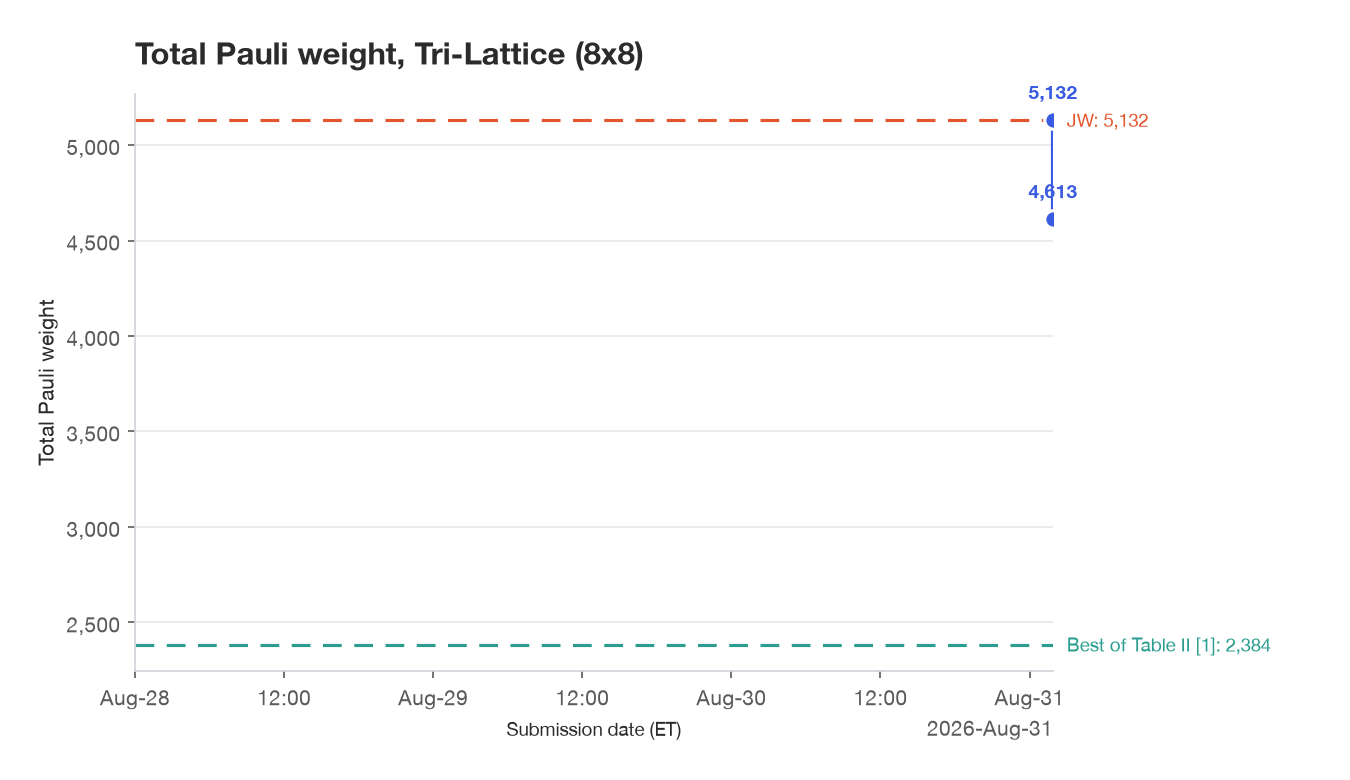
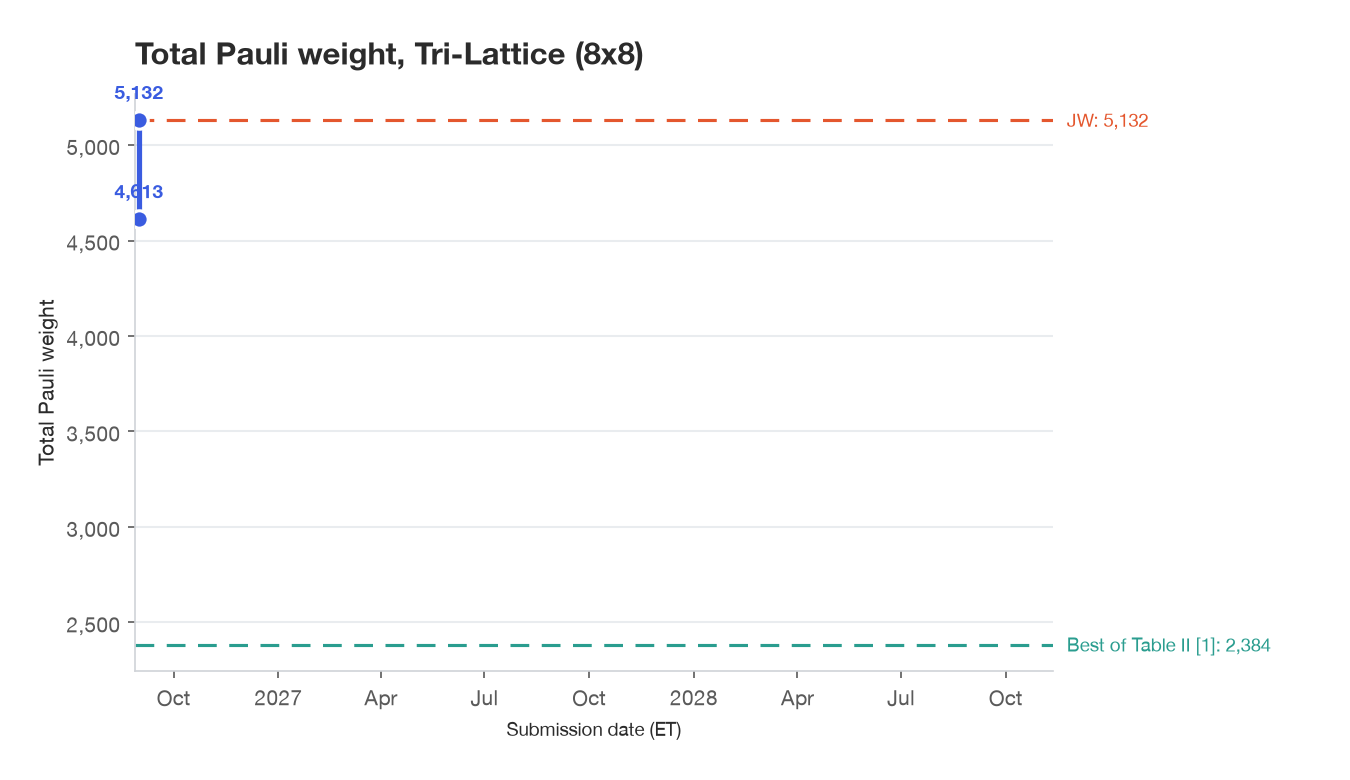
Cap the graph challenge's triangular/hexagonal sweep at 8x8
Both lattice types previously swept to different sizes (triangular
3-15, hexagonal 3-10) chosen to keep qubit counts roughly comparable.
Revisited because, unlike the square-lattice sweep's fixed baselines,
a graph-challenge submission's encode() can do unbounded optimization
work -- nothing bounded how expensive the largest swept shape got to
verify. Cap both types down to a uniform 3x3..8x8 instead, accepting
the resulting qubit-count asymmetry (hexagonal 128 vs triangular 64
at 8x8) for how much simpler one shared cap is to state and explain.

Re-registered the 4 reference baselines (jw/tt x triangular/hexagonal)
at the new range and regenerated LEADERBOARD_GRAPHS.md. Square-lattice
leaderboard files verified byte-identical throughout.

diff --git a/scripts/update_leaderboard.py b/scripts/update_leaderboard.py
@@ -93,21 +93,23 @@ SIZES = list(range(3, 16))
 
 
 # Range of Lx=Ly sizes shown in each graph type's own sweep table/chart --
-# mirrors SIZES, but per graph type, since hexagonal's mode count
-# (M = 2*Lx*Ly, two sites per unit cell) grows twice as fast as
-# triangular's (M = Lx*Ly, same as the square lattice). A shared upper
-# bound would leave hexagonal's top qubit count roughly double
-# triangular's; capped instead so the two land in the same ballpark
-# (hexagonal 10x10 = 200 qubits, triangular 15x15 = 225) -- a submission's
-# own encode() may do real optimization work, so the qubit count a
-# verifier run actually has to handle matters, not just what our own
-# reference baselines need. periodic_hexagonal/periodic_triangular have
-# no sweep defined -- not shown in any table yet (still submittable,
-# still scored and cached, same as any other is_showcased()-excluded
-# shape -- see NOTES.md).
+# both capped at 8x8, deliberately smaller than SIZES' own 3x3..15x15
+# (arXiv 2504.21636 Table I's square-lattice sweep): a submission's own
+# encode() may do real optimization work, and 8x8 keeps the largest case
+# in either sweep comfortably fast to verify/score regardless of what a
+# submission does, without needing to reason about it case by case.
+# Deliberately the SAME numeric cap for both graph types, not a per-type
+# qubit-count-matched one: hexagonal's mode count (M = 2*Lx*Ly, two sites
+# per unit cell) grows twice as fast as triangular's (M = Lx*Ly, same as
+# the square lattice), so hexagonal's top qubit count at 8x8 (128) ends up
+# double triangular's (64) -- accepted for how much simpler "both sweep
+# 3x3..8x8" is to state and explain than two different numbers would be.
+# periodic_hexagonal/periodic_triangular have no sweep defined -- not
+# shown in any table yet (still submittable, still scored and cached,
+# same as any other is_showcased()-excluded shape -- see NOTES.md).
 GRAPH_SWEEP_SIZES = {
-    "triangular": list(range(3, 16)),
-    "hexagonal": list(range(3, 11)),
+    "triangular": list(range(3, 9)),
+    "hexagonal": list(range(3, 9)),
 }
 
 
@@ -894,22 +896,22 @@ def write_graph_challenge_leaderboard():
             "challenge. Same layout as `LEADERBOARD.md` too: rows are rank "
             "positions, not fixed encodings, and columns are lattice sizes "
             "`Lx = Ly` (a submission may claim other shapes too -- see "
-            "\"Other shapes\" below) -- swept 3x3..15x15 for Tri-Lattice and "
-            "3x3..10x10 for Hex-Lattice (`GRAPH_SWEEP_SIZES` in "
-            "`scripts/update_leaderboard.py`; Hex-Lattice has two sites per unit "
-            "cell, so its mode count grows twice as fast, hence the shorter sweep "
-            "-- 10x10 there is 200 qubits, about the same as Tri-Lattice's 15x15 "
-            "at 225). Periodic Hex-Lattice and Periodic Tri-Lattice are valid "
-            "targets too (`\"graph\": \"periodic_hexagonal\"/\"periodic_triangular\"` "
-            "in `submission.json`) but aren't swept/shown in a table yet -- any "
-            "shape claimed for them is still verified, scored, and cached, and "
-            "shows up in \"Other shapes\" below. Same non-negotiable rule as the "
+            "\"Other shapes\" below) -- swept `3x3..8x8` for both Tri-Lattice and "
+            "Hex-Lattice (`GRAPH_SWEEP_SIZES` in `scripts/update_leaderboard.py`; "
+            "the same numeric cap for both, deliberately, even though Hex-Lattice "
+            "has two sites per unit cell and so reaches double the qubit count of "
+            "Tri-Lattice at the same `L` -- 128 vs. 64 at `8x8`). Periodic "
+            "Hex-Lattice and Periodic Tri-Lattice are valid targets too "
+            "(`\"graph\": \"periodic_hexagonal\"/\"periodic_triangular\"` in "
+            "`submission.json`) but aren't swept/shown in a table yet -- any shape "
+            "claimed for them is still verified, scored, and cached, and shows up "
+            "in \"Other shapes\" below. Same non-negotiable rule as the "
             "square-lattice challenge: the harness does not search orderings on a "
             "submission's behalf; each graph type ships one canonical default "
             "ordering (see `harness/graphs.py`), overridable by a submission's own "
             "declared `order(Lx, Ly) -> perm` exactly as today.\n\n"
             "A submission declares which shape(s) it targets as explicit `Lx x Ly` "
-            "pairs (e.g. `\"sizes\": \"8x8,15x15\"` in `submission.json` -- see "
+            "pairs (e.g. `\"sizes\": \"3x3,8x8\"` in `submission.json` -- see "
             "`inbox/README.md`), not a single size: for these lattice types, mode "
             "count `M` alone does **not** determine the graph -- different `(Lx, "
             "Ly)` splits at the same `M` are structurally different graphs. `[1]` "

diff --git a/tests/test_update_leaderboard.py b/tests/test_update_leaderboard.py
@@ -305,8 +305,9 @@ def test_graph_paper_entries_max_is_always_empty():
 
 def test_graph_sweep_column_labels():
     assert update_leaderboard.graph_sweep_column_labels("hexagonal")[0] == "3×3"
-    assert len(update_leaderboard.graph_sweep_column_labels("triangular")) == 13
-    assert len(update_leaderboard.graph_sweep_column_labels("hexagonal")) == 8
+    assert update_leaderboard.graph_sweep_column_labels("triangular")[-1] == "8×8"
+    assert len(update_leaderboard.graph_sweep_column_labels("triangular")) == 6
+    assert len(update_leaderboard.graph_sweep_column_labels("hexagonal")) == 6
 
 
 # --- graph_other_shapes / render_other_graph_shapes ---
@@ -454,13 +455,13 @@ def test_is_showcased_square_out_of_range_not_showcased():
 
 
 def test_is_showcased_triangular_in_sweep():
+    assert update_leaderboard.is_showcased("triangular", 3, 3) is True
     assert update_leaderboard.is_showcased("triangular", 8, 8) is True
-    assert update_leaderboard.is_showcased("triangular", 15, 15) is True
 
 
 def test_is_showcased_hexagonal_in_sweep():
+    assert update_leaderboard.is_showcased("hexagonal", 3, 3) is True
     assert update_leaderboard.is_showcased("hexagonal", 8, 8) is True
-    assert update_leaderboard.is_showcased("hexagonal", 10, 10) is True
 
 
 def test_is_showcased_hexagonal_canonical_shape_not_showcased():
@@ -470,11 +471,11 @@ def test_is_showcased_hexagonal_canonical_shape_not_showcased():
 
 
 def test_is_showcased_triangular_out_of_sweep_range_not_showcased():
-    assert update_leaderboard.is_showcased("triangular", 16, 16) is False
+    assert update_leaderboard.is_showcased("triangular", 9, 9) is False
 
 
 def test_is_showcased_hexagonal_out_of_sweep_range_not_showcased():
-    assert update_leaderboard.is_showcased("hexagonal", 11, 11) is False
+    assert update_leaderboard.is_showcased("hexagonal", 9, 9) is False
 
 
 def test_is_showcased_periodic_types_never_showcased():

diff --git a/LEADERBOARD_GRAPHS.md b/LEADERBOARD_GRAPHS.md
@@ -1,12 +1,12 @@
 # Leaderboard -- beyond square lattices
 
-Generated by `scripts/update_leaderboard.py` — **do not hand-edit this file**. A separate challenge from the square-lattice one in `LEADERBOARD.md`: the target graphs are 2D lattice types from arXiv 2504.21636's Table II (Tri-Lattice/triangular and Hex-Lattice/hexagonal, not square grids), scored under the exact same `D = Num + ReHop + ImHop + Inter` metric as the square-lattice challenge. Same layout as `LEADERBOARD.md` too: rows are rank positions, not fixed encodings, and columns are lattice sizes `Lx = Ly` (a submission may claim other shapes too -- see "Other shapes" below) -- swept 3x3..15x15 for Tri-Lattice and 3x3..10x10 for Hex-Lattice (`GRAPH_SWEEP_SIZES` in `scripts/update_leaderboard.py`; Hex-Lattice has two sites per unit cell, so its mode count grows twice as fast, hence the shorter sweep -- 10x10 there is 200 qubits, about the same as Tri-Lattice's 15x15 at 225). Periodic Hex-Lattice and Periodic Tri-Lattice are valid targets too (`"graph": "periodic_hexagonal"/"periodic_triangular"` in `submission.json`) but aren't swept/shown in a table yet -- any shape claimed for them is still verified, scored, and cached, and shows up in "Other shapes" below. Same non-negotiable rule as the square-lattice challenge: the harness does not search orderings on a submission's behalf; each graph type ships one canonical default ordering (see `harness/graphs.py`), overridable by a submission's own declared `order(Lx, Ly) -> perm` exactly as today.
+Generated by `scripts/update_leaderboard.py` — **do not hand-edit this file**. A separate challenge from the square-lattice one in `LEADERBOARD.md`: the target graphs are 2D lattice types from arXiv 2504.21636's Table II (Tri-Lattice/triangular and Hex-Lattice/hexagonal, not square grids), scored under the exact same `D = Num + ReHop + ImHop + Inter` metric as the square-lattice challenge. Same layout as `LEADERBOARD.md` too: rows are rank positions, not fixed encodings, and columns are lattice sizes `Lx = Ly` (a submission may claim other shapes too -- see "Other shapes" below) -- swept `3x3..8x8` for both Tri-Lattice and Hex-Lattice (`GRAPH_SWEEP_SIZES` in `scripts/update_leaderboard.py`; the same numeric cap for both, deliberately, even though Hex-Lattice has two sites per unit cell and so reaches double the qubit count of Tri-Lattice at the same `L` -- 128 vs. 64 at `8x8`). Periodic Hex-Lattice and Periodic Tri-Lattice are valid targets too (`"graph": "periodic_hexagonal"/"periodic_triangular"` in `submission.json`) but aren't swept/shown in a table yet -- any shape claimed for them is still verified, scored, and cached, and shows up in "Other shapes" below. Same non-negotiable rule as the square-lattice challenge: the harness does not search orderings on a submission's behalf; each graph type ships one canonical default ordering (see `harness/graphs.py`), overridable by a submission's own declared `order(Lx, Ly) -> perm` exactly as today.
 
-A submission declares which shape(s) it targets as explicit `Lx x Ly` pairs (e.g. `"sizes": "8x8,15x15"` in `submission.json` -- see `inbox/README.md`), not a single size: for these lattice types, mode count `M` alone does **not** determine the graph -- different `(Lx, Ly)` splits at the same `M` are structurally different graphs. `[1]` rows are arXiv 2504.21636's own published Table II, shown at Tri-Lattice's 8x8 column (its own paper-comparison shape, which happens to be `Lx = Ly`); Hex-Lattice's paper-comparison shape is `(8, 4)`, not `Lx = Ly`, so it has no column in these Lx=Ly-only sweep tables and gets no `[1]` row here -- our own `jw_hexagonal`/`tt_hexagonal` baselines are still real, ranked entries, just without a paper number to line up against. Our own construction of any canonical shape won't reproduce the paper's numbers exactly (the paper doesn't state the exact shape/ordering it used), only land in the same ballpark; see NOTES.md.
+A submission declares which shape(s) it targets as explicit `Lx x Ly` pairs (e.g. `"sizes": "3x3,8x8"` in `submission.json` -- see `inbox/README.md`), not a single size: for these lattice types, mode count `M` alone does **not** determine the graph -- different `(Lx, Ly)` splits at the same `M` are structurally different graphs. `[1]` rows are arXiv 2504.21636's own published Table II, shown at Tri-Lattice's 8x8 column (its own paper-comparison shape, which happens to be `Lx = Ly`); Hex-Lattice's paper-comparison shape is `(8, 4)`, not `Lx = Ly`, so it has no column in these Lx=Ly-only sweep tables and gets no `[1]` row here -- our own `jw_hexagonal`/`tt_hexagonal` baselines are still real, ranked entries, just without a paper number to line up against. Our own construction of any canonical shape won't reproduce the paper's numbers exactly (the paper doesn't state the exact shape/ordering it used), only land in the same ballpark; see NOTES.md.
 
 Lower is better, on every table.
 
-![Total Pauli weight progress, Tri-Lattice](assets/progress_triangular_weight.png?v=b40761f3b13c)
+![Total Pauli weight progress, Tri-Lattice](assets/progress_triangular_weight.png?v=a28680bd412b)
 
 Best total Pauli weight reached so far on the Tri-Lattice at 8x8 (arXiv 2504.21636's own Table II comparison point), plotted against submission date -- shown for Tri-Lattice only since it's the one graph type whose paper-comparison shape is itself Lx=Ly (Hex-Lattice's is not -- see NOTES.md). Dashed lines are the JW reference and the better of Table II's own two Tri-Lattice numbers (JW, TT). See the full tables below for the complete picture across both graph types and every swept size.
 
@@ -14,39 +14,39 @@ Best total Pauli weight reached so far on the Tri-Lattice at 8x8 (arXiv 2504.216
 
 `D = Num + ReHop + ImHop + Inter`
 
-| rank | 3×3 | 4×4 | 5×5 | 6×6 | 7×7 | 8×8 | 9×9 | 10×10 | 11×11 | 12×12 | 13×13 | 14×14 | 15×15 |
-|---|---|---|---|---|---|---|---|---|---|---|---|---|---|
-| 1 | **297**<br>[JW](baselines/jw_triangular.py) | **700**<br>[JW](baselines/jw_triangular.py) | **1337**<br>[JW](baselines/jw_triangular.py) | **2256**<br>[JW](baselines/jw_triangular.py) | **3363**<br>[TT](baselines/tt_triangular.py) | **2384**<br>JW [[1]](#references) | **6089**<br>[TT](baselines/tt_triangular.py) | **7921**<br>[TT](baselines/tt_triangular.py) | **9879**<br>[TT](baselines/tt_triangular.py) | **12278**<br>[TT](baselines/tt_triangular.py) | **14731**<br>[TT](baselines/tt_triangular.py) | **17350**<br>[TT](baselines/tt_triangular.py) | **20376**<br>[TT](baselines/tt_triangular.py) |
-| 2 | **369**<br>[TT](baselines/tt_triangular.py) | **806**<br>[TT](baselines/tt_triangular.py) | **1474**<br>[TT](baselines/tt_triangular.py) | **2342**<br>[TT](baselines/tt_triangular.py) | **3505**<br>[JW](baselines/jw_triangular.py) | **2478**<br>TT [[1]](#references) | **7185**<br>[JW](baselines/jw_triangular.py) | **9712**<br>[JW](baselines/jw_triangular.py) | **12761**<br>[JW](baselines/jw_triangular.py) | **16380**<br>[JW](baselines/jw_triangular.py) | **20617**<br>[JW](baselines/jw_triangular.py) | **25520**<br>[JW](baselines/jw_triangular.py) | **31137**<br>[JW](baselines/jw_triangular.py) |
-| 3 |  |  |  |  |  | **4613**<br>[TT](baselines/tt_triangular.py) |  |  |  |  |  |  |  |
-| 4 |  |  |  |  |  | **5132**<br>[JW](baselines/jw_triangular.py) |  |  |  |  |  |  |  |
+| rank | 3×3 | 4×4 | 5×5 | 6×6 | 7×7 | 8×8 |
+|---|---|---|---|---|---|---|
+| 1 | **297**<br>[JW](baselines/jw_triangular.py) | **700**<br>[JW](baselines/jw_triangular.py) | **1337**<br>[JW](baselines/jw_triangular.py) | **2256**<br>[JW](baselines/jw_triangular.py) | **3363**<br>[TT](baselines/tt_triangular.py) | **2384**<br>JW [[1]](#references) |
+| 2 | **369**<br>[TT](baselines/tt_triangular.py) | **806**<br>[TT](baselines/tt_triangular.py) | **1474**<br>[TT](baselines/tt_triangular.py) | **2342**<br>[TT](baselines/tt_triangular.py) | **3505**<br>[JW](baselines/jw_triangular.py) | **2478**<br>TT [[1]](#references) |
+| 3 |  |  |  |  |  | **4613**<br>[TT](baselines/tt_triangular.py) |
+| 4 |  |  |  |  |  | **5132**<br>[JW](baselines/jw_triangular.py) |
 
 ## Tri-Lattice — Maximum Pauli weight
 
 `D = max(Num, ReHop, ImHop, Inter)`
 
-| rank | 3×3 | 4×4 | 5×5 | 6×6 | 7×7 | 8×8 | 9×9 | 10×10 | 11×11 | 12×12 | 13×13 | 14×14 | 15×15 |
-|---|---|---|---|---|---|---|---|---|---|---|---|---|---|
-| 1 | **5**<br>[JW](baselines/jw_triangular.py) | **6**<br>[JW](baselines/jw_triangular.py)<br>[TT](baselines/tt_triangular.py) | **7**<br>[JW](baselines/jw_triangular.py) | **8**<br>[JW](baselines/jw_triangular.py) | **8**<br>[TT](baselines/tt_triangular.py) | **10**<br>[JW](baselines/jw_triangular.py) | **11**<br>[JW](baselines/jw_triangular.py) | **10**<br>[TT](baselines/tt_triangular.py) | **12**<br>[TT](baselines/tt_triangular.py) | **12**<br>[TT](baselines/tt_triangular.py) | **11**<br>[TT](baselines/tt_triangular.py) | **13**<br>[TT](baselines/tt_triangular.py) | **14**<br>[TT](baselines/tt_triangular.py) |
-| 2 | **6**<br>[TT](baselines/tt_triangular.py) |  | **10**<br>[TT](baselines/tt_triangular.py) | **10**<br>[TT](baselines/tt_triangular.py) | **9**<br>[JW](baselines/jw_triangular.py) | **11**<br>[TT](baselines/tt_triangular.py) | **12**<br>[TT](baselines/tt_triangular.py) | **12**<br>[JW](baselines/jw_triangular.py) | **13**<br>[JW](baselines/jw_triangular.py) | **14**<br>[JW](baselines/jw_triangular.py) | **15**<br>[JW](baselines/jw_triangular.py) | **16**<br>[JW](baselines/jw_triangular.py) | **17**<br>[JW](baselines/jw_triangular.py) |
+| rank | 3×3 | 4×4 | 5×5 | 6×6 | 7×7 | 8×8 |
+|---|---|---|---|---|---|---|
+| 1 | **5**<br>[JW](baselines/jw_triangular.py) | **6**<br>[JW](baselines/jw_triangular.py)<br>[TT](baselines/tt_triangular.py) | **7**<br>[JW](baselines/jw_triangular.py) | **8**<br>[JW](baselines/jw_triangular.py) | **8**<br>[TT](baselines/tt_triangular.py) | **10**<br>[JW](baselines/jw_triangular.py) |
+| 2 | **6**<br>[TT](baselines/tt_triangular.py) |  | **10**<br>[TT](baselines/tt_triangular.py) | **10**<br>[TT](baselines/tt_triangular.py) | **9**<br>[JW](baselines/jw_triangular.py) | **11**<br>[TT](baselines/tt_triangular.py) |
 
 ## Hex-Lattice — Total Pauli weight
 
 `D = Num + ReHop + ImHop + Inter`
 
-| rank | 3×3 | 4×4 | 5×5 | 6×6 | 7×7 | 8×8 | 9×9 | 10×10 |
-|---|---|---|---|---|---|---|---|---|
-| 1 | **366**<br>[JW](baselines/jw_hexagonal.py) | **800**<br>[JW](baselines/jw_hexagonal.py) | **1470**<br>[JW](baselines/jw_hexagonal.py) | **2415**<br>[TT](baselines/tt_hexagonal.py) | **3456**<br>[TT](baselines/tt_hexagonal.py) | **4614**<br>[TT](baselines/tt_hexagonal.py) | **5911**<br>[TT](baselines/tt_hexagonal.py) | **7470**<br>[TT](baselines/tt_hexagonal.py) |
-| 2 | **467**<br>[TT](baselines/tt_hexagonal.py) | **944**<br>[TT](baselines/tt_hexagonal.py) | **1587**<br>[TT](baselines/tt_hexagonal.py) | **2424**<br>[JW](baselines/jw_hexagonal.py) | **3710**<br>[JW](baselines/jw_hexagonal.py) | **5376**<br>[JW](baselines/jw_hexagonal.py) | **7470**<br>[JW](baselines/jw_hexagonal.py) | **10040**<br>[JW](baselines/jw_hexagonal.py) |
+| rank | 3×3 | 4×4 | 5×5 | 6×6 | 7×7 | 8×8 |
+|---|---|---|---|---|---|---|
+| 1 | **366**<br>[JW](baselines/jw_hexagonal.py) | **800**<br>[JW](baselines/jw_hexagonal.py) | **1470**<br>[JW](baselines/jw_hexagonal.py) | **2415**<br>[TT](baselines/tt_hexagonal.py) | **3456**<br>[TT](baselines/tt_hexagonal.py) | **4614**<br>[TT](baselines/tt_hexagonal.py) |
+| 2 | **467**<br>[TT](baselines/tt_hexagonal.py) | **944**<br>[TT](baselines/tt_hexagonal.py) | **1587**<br>[TT](baselines/tt_hexagonal.py) | **2424**<br>[JW](baselines/jw_hexagonal.py) | **3710**<br>[JW](baselines/jw_hexagonal.py) | **5376**<br>[JW](baselines/jw_hexagonal.py) |
 
 ## Hex-Lattice — Maximum Pauli weight
 
 `D = max(Num, ReHop, ImHop, Inter)`
 
-| rank | 3×3 | 4×4 | 5×5 | 6×6 | 7×7 | 8×8 | 9×9 | 10×10 |
-|---|---|---|---|---|---|---|---|---|
-| 1 | **6**<br>[JW](baselines/jw_hexagonal.py)<br>[TT](baselines/tt_hexagonal.py) | **8**<br>[JW](baselines/jw_hexagonal.py)<br>[TT](baselines/tt_hexagonal.py) | **10**<br>[JW](baselines/jw_hexagonal.py) | **10**<br>[TT](baselines/tt_hexagonal.py) | **10**<br>[TT](baselines/tt_hexagonal.py) | **12**<br>[TT](baselines/tt_hexagonal.py) | **11**<br>[TT](baselines/tt_hexagonal.py) | **11**<br>[TT](baselines/tt_hexagonal.py) |
-| 2 |  |  | **11**<br>[TT](baselines/tt_hexagonal.py) | **12**<br>[JW](baselines/jw_hexagonal.py) | **14**<br>[JW](baselines/jw_hexagonal.py) | **16**<br>[JW](baselines/jw_hexagonal.py) | **18**<br>[JW](baselines/jw_hexagonal.py) | **20**<br>[JW](baselines/jw_hexagonal.py) |
+| rank | 3×3 | 4×4 | 5×5 | 6×6 | 7×7 | 8×8 |
+|---|---|---|---|---|---|---|
+| 1 | **6**<br>[JW](baselines/jw_hexagonal.py)<br>[TT](baselines/tt_hexagonal.py) | **8**<br>[JW](baselines/jw_hexagonal.py)<br>[TT](baselines/tt_hexagonal.py) | **10**<br>[JW](baselines/jw_hexagonal.py) | **10**<br>[TT](baselines/tt_hexagonal.py) | **10**<br>[TT](baselines/tt_hexagonal.py) | **12**<br>[TT](baselines/tt_hexagonal.py) |
+| 2 |  |  | **11**<br>[TT](baselines/tt_hexagonal.py) | **12**<br>[JW](baselines/jw_hexagonal.py) | **14**<br>[JW](baselines/jw_hexagonal.py) | **16**<br>[JW](baselines/jw_hexagonal.py) |
 
 ## References
 

diff --git a/_graph_leaderboard_body.md b/_graph_leaderboard_body.md
@@ -1,4 +1,4 @@
-![Total Pauli weight progress, Tri-Lattice](../assets/progress_triangular_weight.png?v=b40761f3b13c)
+![Total Pauli weight progress, Tri-Lattice](../assets/progress_triangular_weight.png?v=a28680bd412b)
 
 Best total Pauli weight reached so far on the Tri-Lattice at 8x8 (arXiv 2504.21636's own Table II comparison point), plotted against submission date -- shown for Tri-Lattice only since it's the one graph type whose paper-comparison shape is itself Lx=Ly (Hex-Lattice's is not -- see NOTES.md). Dashed lines are the JW reference and the better of Table II's own two Tri-Lattice numbers (JW, TT). See the full tables below for the complete picture across both graph types and every swept size.
 
@@ -6,39 +6,39 @@ Best total Pauli weight reached so far on the Tri-Lattice at 8x8 (arXiv 2504.216
 
 `D = Num + ReHop + ImHop + Inter`
 
-| rank | 3×3 | 4×4 | 5×5 | 6×6 | 7×7 | 8×8 | 9×9 | 10×10 | 11×11 | 12×12 | 13×13 | 14×14 | 15×15 |
-|---|---|---|---|---|---|---|---|---|---|---|---|---|---|
-| 1 | **297**<br>[JW](../baselines/jw_triangular.py) | **700**<br>[JW](../baselines/jw_triangular.py) | **1337**<br>[JW](../baselines/jw_triangular.py) | **2256**<br>[JW](../baselines/jw_triangular.py) | **3363**<br>[TT](../baselines/tt_triangular.py) | **2384**<br>JW [[1]](#references) | **6089**<br>[TT](../baselines/tt_triangular.py) | **7921**<br>[TT](../baselines/tt_triangular.py) | **9879**<br>[TT](../baselines/tt_triangular.py) | **12278**<br>[TT](../baselines/tt_triangular.py) | **14731**<br>[TT](../baselines/tt_triangular.py) | **17350**<br>[TT](../baselines/tt_triangular.py) | **20376**<br>[TT](../baselines/tt_triangular.py) |
-| 2 | **369**<br>[TT](../baselines/tt_triangular.py) | **806**<br>[TT](../baselines/tt_triangular.py) | **1474**<br>[TT](../baselines/tt_triangular.py) | **2342**<br>[TT](../baselines/tt_triangular.py) | **3505**<br>[JW](../baselines/jw_triangular.py) | **2478**<br>TT [[1]](#references) | **7185**<br>[JW](../baselines/jw_triangular.py) | **9712**<br>[JW](../baselines/jw_triangular.py) | **12761**<br>[JW](../baselines/jw_triangular.py) | **16380**<br>[JW](../baselines/jw_triangular.py) | **20617**<br>[JW](../baselines/jw_triangular.py) | **25520**<br>[JW](../baselines/jw_triangular.py) | **31137**<br>[JW](../baselines/jw_triangular.py) |
-| 3 |  |  |  |  |  | **4613**<br>[TT](../baselines/tt_triangular.py) |  |  |  |  |  |  |  |
-| 4 |  |  |  |  |  | **5132**<br>[JW](../baselines/jw_triangular.py) |  |  |  |  |  |  |  |
+| rank | 3×3 | 4×4 | 5×5 | 6×6 | 7×7 | 8×8 |
+|---|---|---|---|---|---|---|
+| 1 | **297**<br>[JW](../baselines/jw_triangular.py) | **700**<br>[JW](../baselines/jw_triangular.py) | **1337**<br>[JW](../baselines/jw_triangular.py) | **2256**<br>[JW](../baselines/jw_triangular.py) | **3363**<br>[TT](../baselines/tt_triangular.py) | **2384**<br>JW [[1]](#references) |
+| 2 | **369**<br>[TT](../baselines/tt_triangular.py) | **806**<br>[TT](../baselines/tt_triangular.py) | **1474**<br>[TT](../baselines/tt_triangular.py) | **2342**<br>[TT](../baselines/tt_triangular.py) | **3505**<br>[JW](../baselines/jw_triangular.py) | **2478**<br>TT [[1]](#references) |
+| 3 |  |  |  |  |  | **4613**<br>[TT](../baselines/tt_triangular.py) |
+| 4 |  |  |  |  |  | **5132**<br>[JW](../baselines/jw_triangular.py) |
 
 ## Tri-Lattice — Maximum Pauli weight
 
 `D = max(Num, ReHop, ImHop, Inter)`
 
-| rank | 3×3 | 4×4 | 5×5 | 6×6 | 7×7 | 8×8 | 9×9 | 10×10 | 11×11 | 12×12 | 13×13 | 14×14 | 15×15 |
-|---|---|---|---|---|---|---|---|---|---|---|---|---|---|
-| 1 | **5**<br>[JW](../baselines/jw_triangular.py) | **6**<br>[JW](../baselines/jw_triangular.py)<br>[TT](../baselines/tt_triangular.py) | **7**<br>[JW](../baselines/jw_triangular.py) | **8**<br>[JW](../baselines/jw_triangular.py) | **8**<br>[TT](../baselines/tt_triangular.py) | **10**<br>[JW](../baselines/jw_triangular.py) | **11**<br>[JW](../baselines/jw_triangular.py) | **10**<br>[TT](../baselines/tt_triangular.py) | **12**<br>[TT](../baselines/tt_triangular.py) | **12**<br>[TT](../baselines/tt_triangular.py) | **11**<br>[TT](../baselines/tt_triangular.py) | **13**<br>[TT](../baselines/tt_triangular.py) | **14**<br>[TT](../baselines/tt_triangular.py) |
-| 2 | **6**<br>[TT](../baselines/tt_triangular.py) |  | **10**<br>[TT](../baselines/tt_triangular.py) | **10**<br>[TT](../baselines/tt_triangular.py) | **9**<br>[JW](../baselines/jw_triangular.py) | **11**<br>[TT](../baselines/tt_triangular.py) | **12**<br>[TT](../baselines/tt_triangular.py) | **12**<br>[JW](../baselines/jw_triangular.py) | **13**<br>[JW](../baselines/jw_triangular.py) | **14**<br>[JW](../baselines/jw_triangular.py) | **15**<br>[JW](../baselines/jw_triangular.py) | **16**<br>[JW](../baselines/jw_triangular.py) | **17**<br>[JW](../baselines/jw_triangular.py) |
+| rank | 3×3 | 4×4 | 5×5 | 6×6 | 7×7 | 8×8 |
+|---|---|---|---|---|---|---|
+| 1 | **5**<br>[JW](../baselines/jw_triangular.py) | **6**<br>[JW](../baselines/jw_triangular.py)<br>[TT](../baselines/tt_triangular.py) | **7**<br>[JW](../baselines/jw_triangular.py) | **8**<br>[JW](../baselines/jw_triangular.py) | **8**<br>[TT](../baselines/tt_triangular.py) | **10**<br>[JW](../baselines/jw_triangular.py) |
+| 2 | **6**<br>[TT](../baselines/tt_triangular.py) |  | **10**<br>[TT](../baselines/tt_triangular.py) | **10**<br>[TT](../baselines/tt_triangular.py) | **9**<br>[JW](../baselines/jw_triangular.py) | **11**<br>[TT](../baselines/tt_triangular.py) |
 
 ## Hex-Lattice — Total Pauli weight
 
 `D = Num + ReHop + ImHop + Inter`
 
-| rank | 3×3 | 4×4 | 5×5 | 6×6 | 7×7 | 8×8 | 9×9 | 10×10 |
-|---|---|---|---|---|---|---|---|---|
-| 1 | **366**<br>[JW](../baselines/jw_hexagonal.py) | **800**<br>[JW](../baselines/jw_hexagonal.py) | **1470**<br>[JW](../baselines/jw_hexagonal.py) | **2415**<br>[TT](../baselines/tt_hexagonal.py) | **3456**<br>[TT](../baselines/tt_hexagonal.py) | **4614**<br>[TT](../baselines/tt_hexagonal.py) | **5911**<br>[TT](../baselines/tt_hexagonal.py) | **7470**<br>[TT](../baselines/tt_hexagonal.py) |
-| 2 | **467**<br>[TT](../baselines/tt_hexagonal.py) | **944**<br>[TT](../baselines/tt_hexagonal.py) | **1587**<br>[TT](../baselines/tt_hexagonal.py) | **2424**<br>[JW](../baselines/jw_hexagonal.py) | **3710**<br>[JW](../baselines/jw_hexagonal.py) | **5376**<br>[JW](../baselines/jw_hexagonal.py) | **7470**<br>[JW](../baselines/jw_hexagonal.py) | **10040**<br>[JW](../baselines/jw_hexagonal.py) |
+| rank | 3×3 | 4×4 | 5×5 | 6×6 | 7×7 | 8×8 |
+|---|---|---|---|---|---|---|
+| 1 | **366**<br>[JW](../baselines/jw_hexagonal.py) | **800**<br>[JW](../baselines/jw_hexagonal.py) | **1470**<br>[JW](../baselines/jw_hexagonal.py) | **2415**<br>[TT](../baselines/tt_hexagonal.py) | **3456**<br>[TT](../baselines/tt_hexagonal.py) | **4614**<br>[TT](../baselines/tt_hexagonal.py) |
+| 2 | **467**<br>[TT](../baselines/tt_hexagonal.py) | **944**<br>[TT](../baselines/tt_hexagonal.py) | **1587**<br>[TT](../baselines/tt_hexagonal.py) | **2424**<br>[JW](../baselines/jw_hexagonal.py) | **3710**<br>[JW](../baselines/jw_hexagonal.py) | **5376**<br>[JW](../baselines/jw_hexagonal.py) |
 
 ## Hex-Lattice — Maximum Pauli weight
 
 `D = max(Num, ReHop, ImHop, Inter)`
 
-| rank | 3×3 | 4×4 | 5×5 | 6×6 | 7×7 | 8×8 | 9×9 | 10×10 |
-|---|---|---|---|---|---|---|---|---|
-| 1 | **6**<br>[JW](../baselines/jw_hexagonal.py)<br>[TT](../baselines/tt_hexagonal.py) | **8**<br>[JW](../baselines/jw_hexagonal.py)<br>[TT](../baselines/tt_hexagonal.py) | **10**<br>[JW](../baselines/jw_hexagonal.py) | **10**<br>[TT](../baselines/tt_hexagonal.py) | **10**<br>[TT](../baselines/tt_hexagonal.py) | **12**<br>[TT](../baselines/tt_hexagonal.py) | **11**<br>[TT](../baselines/tt_hexagonal.py) | **11**<br>[TT](../baselines/tt_hexagonal.py) |
-| 2 |  |  | **11**<br>[TT](../baselines/tt_hexagonal.py) | **12**<br>[JW](../baselines/jw_hexagonal.py) | **14**<br>[JW](../baselines/jw_hexagonal.py) | **16**<br>[JW](../baselines/jw_hexagonal.py) | **18**<br>[JW](../baselines/jw_hexagonal.py) | **20**<br>[JW](../baselines/jw_hexagonal.py) |
+| rank | 3×3 | 4×4 | 5×5 | 6×6 | 7×7 | 8×8 |
+|---|---|---|---|---|---|---|
+| 1 | **6**<br>[JW](../baselines/jw_hexagonal.py)<br>[TT](../baselines/tt_hexagonal.py) | **8**<br>[JW](../baselines/jw_hexagonal.py)<br>[TT](../baselines/tt_hexagonal.py) | **10**<br>[JW](../baselines/jw_hexagonal.py) | **10**<br>[TT](../baselines/tt_hexagonal.py) | **10**<br>[TT](../baselines/tt_hexagonal.py) | **12**<br>[TT](../baselines/tt_hexagonal.py) |
+| 2 |  |  | **11**<br>[TT](../baselines/tt_hexagonal.py) | **12**<br>[JW](../baselines/jw_hexagonal.py) | **14**<br>[JW](../baselines/jw_hexagonal.py) | **16**<br>[JW](../baselines/jw_hexagonal.py) |
 
 ## References
 

diff --git a/NOTES.md b/NOTES.md
@@ -530,11 +530,12 @@ type (not a single canonical-shape column) was wanted, matching
 `LEADERBOARD.md` far more closely.
 
 **Current layout: one pair of ranked tables (total, max) per swept graph
-type** (Tri-Lattice 3x3..15x15, Hex-Lattice 3x3..10x10 --
-`GRAPH_SWEEP_SIZES` in `scripts/update_leaderboard.py`; hexagonal has two
-sites per unit cell so its mode count grows twice as fast, hence the
-shorter sweep, chosen so hexagonal's top qubit count, 200, lands near
-triangular's, 225), columns = that type's own `Lx = Ly` sizes, built via
+type** (Tri-Lattice 3x3..8x8, Hex-Lattice 3x3..8x8 --
+`GRAPH_SWEEP_SIZES` in `scripts/update_leaderboard.py`; both capped at the
+same numeric value, deliberately, not a qubit-count-matched one -- see
+"Sweep range capped at 8x8" below for why -- so hexagonal's top qubit
+count, 128 (`M = 2*Lx*Ly`, two sites per unit cell), ends up double
+triangular's, 64), columns = that type's own `Lx = Ly` sizes, built via
 `graph_sweep_entries`/`graph_paper_entries`/`graph_sweep_column_labels`
 feeding the same `render_ranked_table` the square-lattice challenge uses.
 Periodic Hex-Lattice/Periodic Tri-Lattice have no sweep defined -- not
@@ -566,6 +567,25 @@ to each lattice type's own canonical default when none is declared,
 which is `jw.py`/`ternary.py`'s own square-specific `order()` would in
 fact be the *wrong length* for hexagonal (`M = 2*Lx*Ly`, not `Lx*Ly`) if
 imported directly -- see `baselines/jw_hexagonal.py`'s docstring.
+
+**Sweep range capped at 8x8 (both types), superseding an earlier
+15x15/10x10 split.** The sweep initially went to Tri-Lattice 3x3..15x15,
+Hex-Lattice 3x3..10x10 -- chosen to keep top qubit counts "roughly
+comparable" (225 vs. 200) given hexagonal's `M = 2*Lx*Ly` grows twice as
+fast as triangular's `M = Lx*Ly`. Revisited because, unlike the
+square-lattice sweep (whose top size, 15x15/225 qubits, only ever runs
+against the harness's own fixed baselines), a graph-challenge submission's
+`encode()` can do real optimization work of unknown cost -- nothing bounds
+how expensive verifying the largest swept shape gets. Capped both types
+down to a uniform 3x3..8x8 instead: deliberately the *same* numeric cap,
+not a re-balanced qubit-count-matched pair (that would just reproduce the
+same problem at smaller numbers) -- accepted the resulting asymmetry
+(Hex-Lattice reaches 128 qubits at `8x8`, double Tri-Lattice's 64) for how
+much simpler "both sweep 3x3..8x8" is to state and explain than two
+different numbers. `CANONICAL_SHAPE` (the paper-comparison point gating
+`[1]` rows) is untouched by this -- still `(8, 4)` for hexagonal/
+periodic_hexagonal and `(8, 8)` for triangular/periodic_triangular, and
+still the only shape gated against Table II.
 
 Two real bugs found and fixed while building this (both by actually
 rendering the chart and looking at the PNG, not just eyeballing the

diff --git a/inbox/README.md b/inbox/README.md
@@ -41,7 +41,7 @@ Graph challenge (non-square lattices -- note `sizes`' different grammar, and the
 {
   "name": "alice_tri_variant",
   "label": "Alice's Tri-Lattice Variant",
-  "sizes": "3x3,4x4,5x5,6x6,7x7,8x8,9x9,10x10,11x11,12x12,13x13,14x14,15x15",
+  "sizes": "3x3,4x4,5x5,6x6,7x7,8x8",
   "graph": "triangular",
   "generated_by": "Claude Opus 4.5"
 }
@@ -93,9 +93,10 @@ Graph challenge (non-square lattices -- note `sizes`' different grammar, and the
   `LEADERBOARD.md`, per graph type: a pair of rank-based tables (total
   weight, max weight), row 1 is whoever wins, not a fixed encoding,
   columns are `Lx = Ly` sizes exactly like `LEADERBOARD.md`'s own —
-  swept `3x3..15x15` for `triangular` and `3x3..10x10` for `hexagonal`
-  (hexagonal has two sites per unit cell, so its mode count grows twice
-  as fast for the same `L`, hence the shorter sweep). `periodic_hexagonal`/
+  swept `3x3..8x8` for both `triangular` and `hexagonal` (the same
+  numeric cap for both, deliberately, even though hexagonal has two sites
+  per unit cell and so reaches double triangular's qubit count at the
+  same `L` — 128 vs. 64 at `8x8`). `periodic_hexagonal`/
   `periodic_triangular` are valid `"graph"` values and get fully
   verified/scored/cached, but aren't swept/shown in a table yet. There's
   also a progress-over-time chart at the top, like `LEADERBOARD.md`'s,

diff --git a/CLAUDE.md b/CLAUDE.md
@@ -139,10 +139,12 @@ cached — whether or not it ever appears in a rendered table.** What's
 in `scripts/update_leaderboard.py`: for `"square"`, an exact `Lx == Ly`
 within `SIZES` (3x3..15x15, arXiv 2504.21636 Table I's own sweep); for
 `"triangular"`/`"hexagonal"`, an exact `Lx == Ly` within that graph
-type's own `GRAPH_SWEEP_SIZES` entry (triangular 3..15, hexagonal 3..10 —
-hexagonal has two sites per unit cell, so its mode count `M = 2·Lx·Ly`
-grows twice as fast as triangular's `M = Lx·Ly`, hence the shorter sweep,
-chosen so hexagonal's top qubit count lands near triangular's); for
+type's own `GRAPH_SWEEP_SIZES` entry (both `3..8`, the same numeric cap
+for both — deliberately, not a per-type qubit-count-matched one: hexagonal
+has two sites per unit cell, so its mode count `M = 2·Lx·Ly` grows twice
+as fast as triangular's `M = Lx·Ly`, meaning hexagonal's top qubit count
+at `8x8` (128) ends up double triangular's (64), accepted for how much
+simpler "both sweep 3x3..8x8" is to state than two different caps); for
 `"periodic_hexagonal"`/`"periodic_triangular"`, always `False` — no sweep
 defined for them yet. A submission at any non-showcased shape/size (an
 off-square rectangle, an out-of-range size, or any periodic-type shape)
